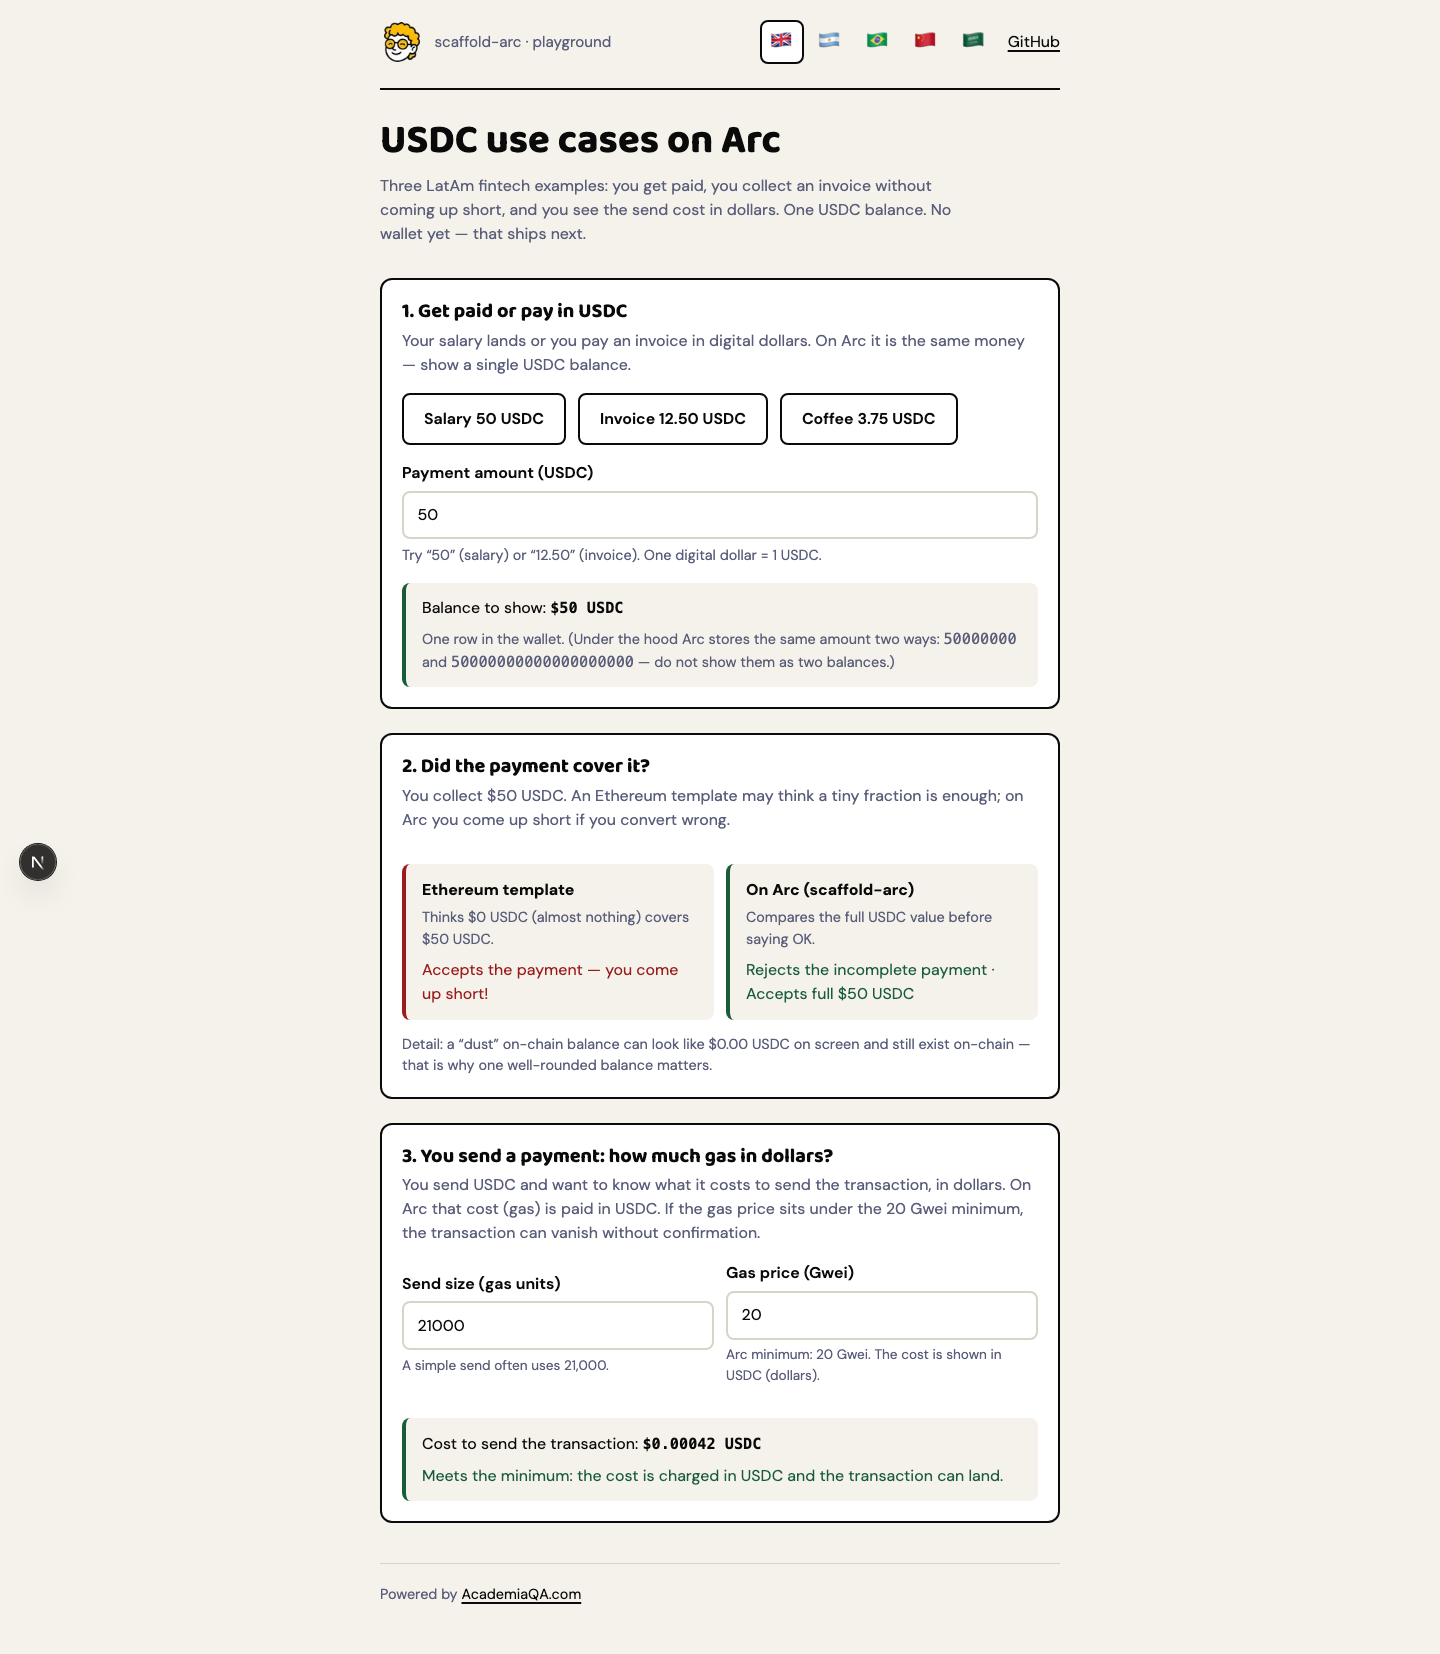
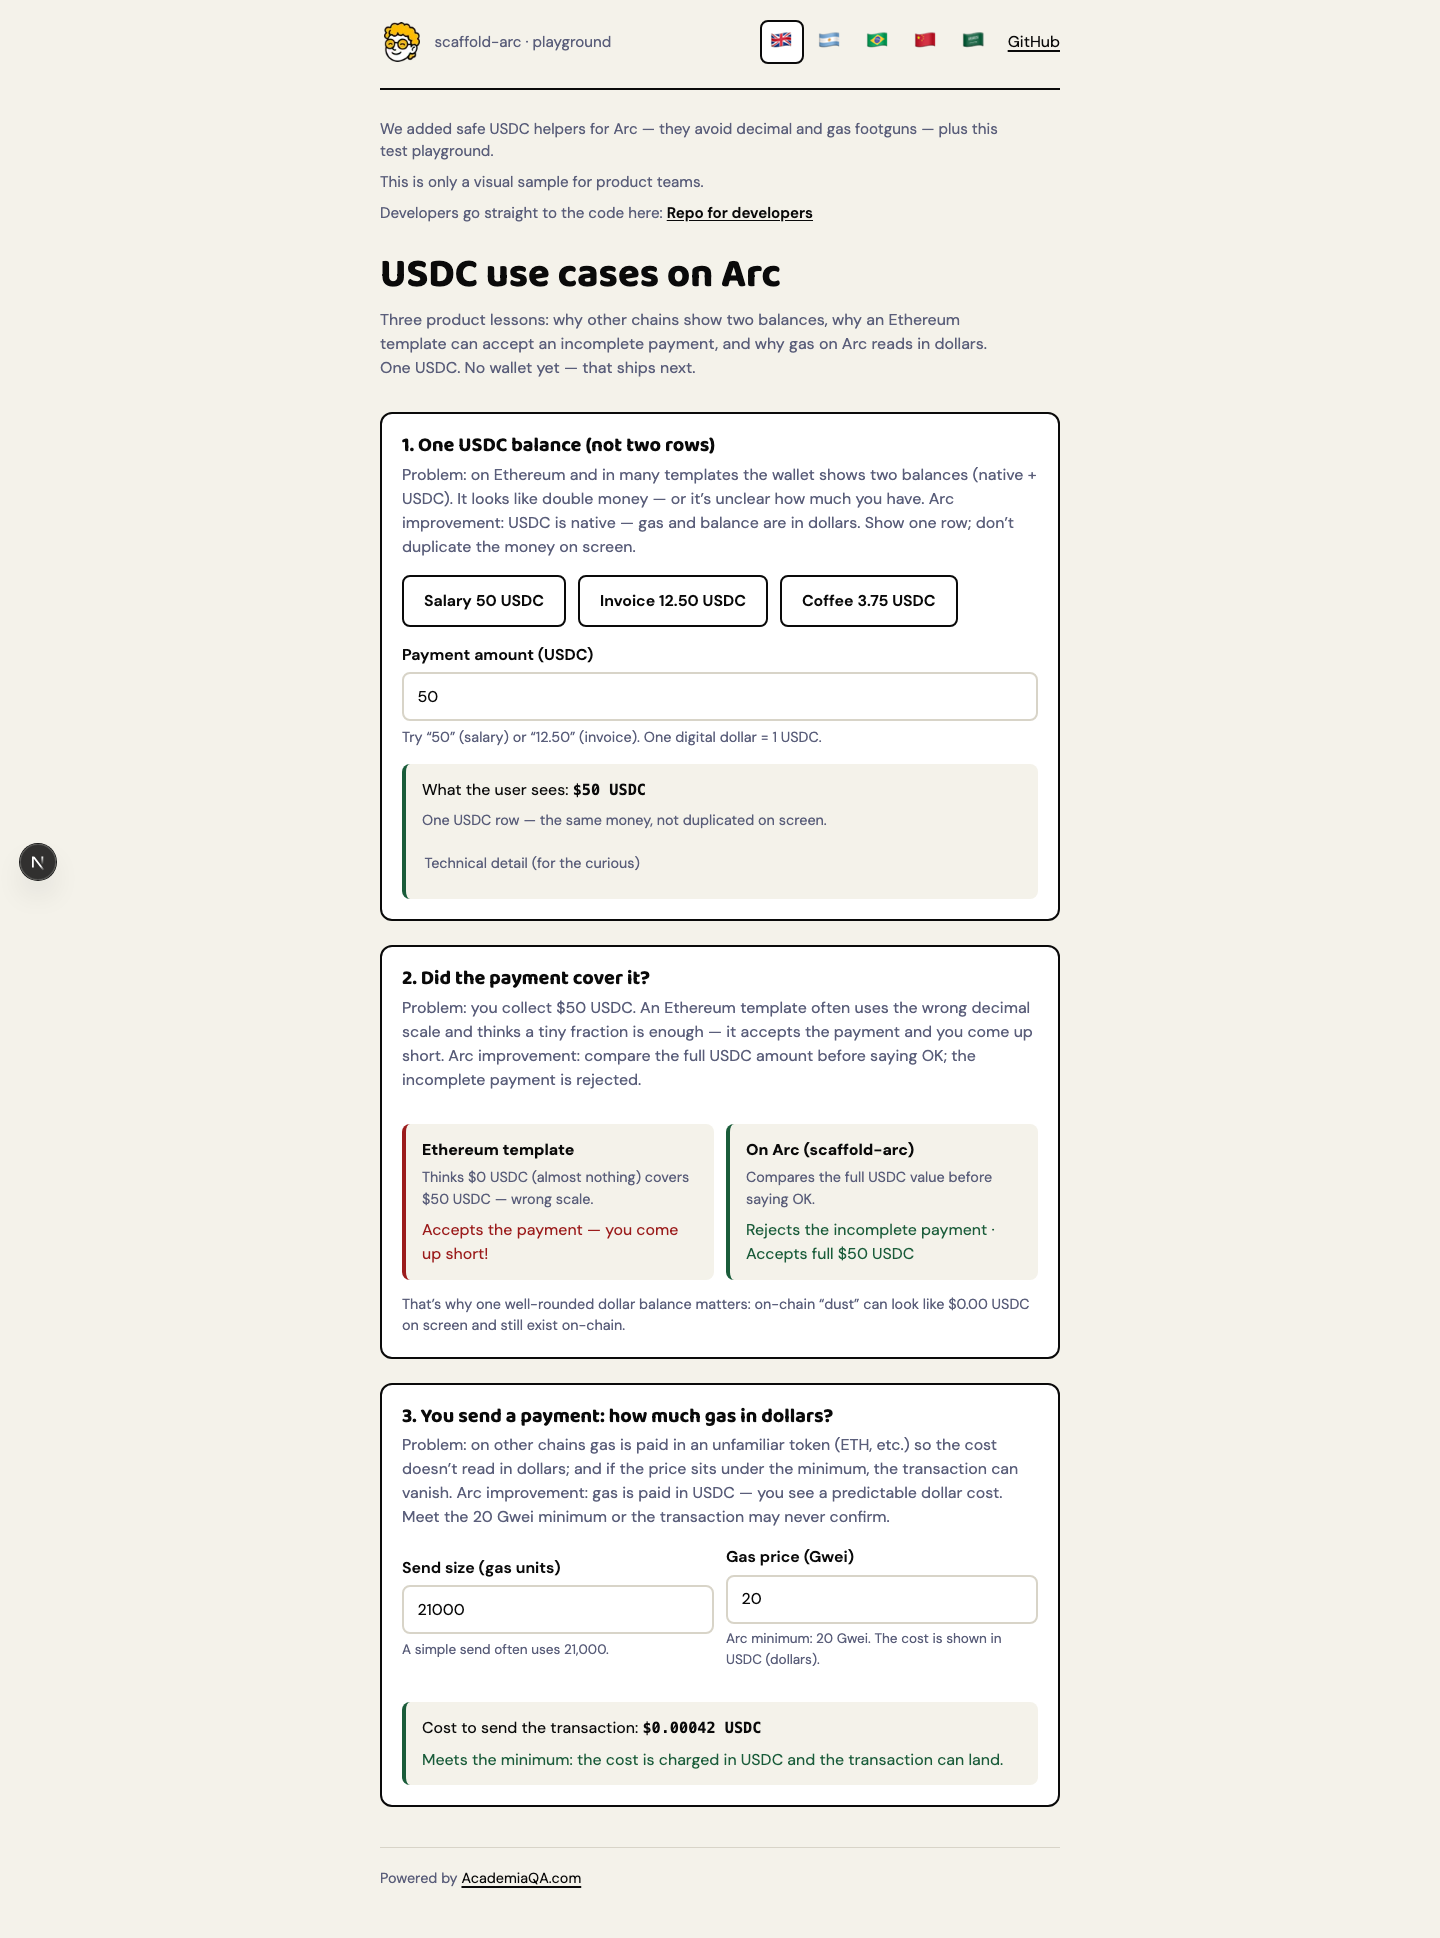
feat(playground): rewrite examples as problem → Arc fix lessons
Make all three USDC demos teach what Arc improves (one balance row, full payment amount, gas in dollars) and hide raw precision integers behind a collapsed tech detail.

diff --git a/packages/nextjs/app/components/UsdcPlayground.tsx b/packages/nextjs/app/components/UsdcPlayground.tsx
@@ -121,16 +121,22 @@ export function UsdcPlayground() {
               </strong>
             </p>
             <p className="muted" style={{ marginTop: "0.5rem", fontSize: "0.9rem" }}>
-              {t("balanceHintBefore")}{" "}
-              <span className="mono" data-testid="out-erc20">
-                {conversion.erc20.toString()}
-              </span>{" "}
-              {t("balanceHintAnd")}{" "}
-              <span className="mono" data-testid="out-native">
-                {conversion.native.toString()}
-              </span>{" "}
-              {t("balanceHintAfter")}
+              {t("balanceOneRow")}
             </p>
+            <details className="tech-details" data-testid="tech-details-balance">
+              <summary>{t("techDetailsSummary")}</summary>
+              <p className="muted" style={{ marginTop: "0.5rem", fontSize: "0.85rem" }}>
+                {t("techDetailsBody")}{" "}
+                <span className="mono" data-testid="out-erc20">
+                  {conversion.erc20.toString()}
+                </span>{" "}
+                {t("balanceHintAnd")}{" "}
+                <span className="mono" data-testid="out-native">
+                  {conversion.native.toString()}
+                </span>
+                .
+              </p>
+            </details>
           </div>
         )}
       </section>

diff --git a/packages/nextjs/app/globals.css b/packages/nextjs/app/globals.css
@@ -321,6 +321,31 @@ input[type="text"]:focus-visible {
   font-size: 0.95rem;
 }
 
+.tech-details {
+  margin-top: 0.65rem;
+  font-size: 0.9rem;
+}
+
+.tech-details summary {
+  cursor: pointer;
+  color: var(--sg-muted);
+  min-height: 44px;
+  display: inline-flex;
+  align-items: center;
+  border-radius: 6px;
+  padding: 0.25rem 0.15rem;
+  list-style-position: outside;
+}
+
+.tech-details summary:focus-visible {
+  outline: 3px solid var(--sg-accent);
+  outline-offset: 3px;
+}
+
+.tech-details[open] summary {
+  color: var(--sg-ink);
+}
+
 .compare {
   display: grid;
   gap: 0.75rem;

diff --git a/README.md b/README.md
@@ -49,9 +49,9 @@ Playground en `http://localhost:3000` (después de `yarn nextjs:dev`):
 
 | Ejemplo en la UI | Qué aprendés |
 |---|---|
-| **Te pagan o pagás en USDC** | Sueldo 50 USDC, factura 12,50 USDC o un café: un **solo saldo** en dólares. |
-| **¿Te alcanzó el pago?** | El template de Ethereum cree que alcanza con una fracción; en Arc te quedás corto si no convertís bien. |
-| **Mandás un pago: ¿cuánto gas en dólares?** | El **costo de enviar** la transacción se muestra en **USDC / dólares**. Si el precio del gas queda bajo el mínimo de 20 Gwei, la transacción puede desaparecer sin confirmación. |
+| **Un solo saldo USDC (no dos filas)** | Problema: en Ethereum / templates ves dos saldos y parece doble plata. Mejora Arc: USDC nativo → **una sola fila** en dólares; no duplicás el dinero en pantalla. |
+| **¿Te alcanzó el pago?** | Problema: el template de Ethereum usa la escala equivocada y acepta una fracción (te quedás corto). Mejora Arc: compara el **monto completo** en USDC antes de dar el ok. |
+| **Mandás un pago: ¿cuánto gas en dólares?** | Problema: en otras chains el gas va en un token raro. Mejora Arc: el **costo de enviar** se muestra en **USDC / dólares**. Si el precio queda bajo el mínimo de 20 Gwei, la transacción puede desaparecer. |
 
 Hoy **no hace falta wallet**: es una calculadora de prueba. Conectar MetaMask llega en el siguiente entregable.
 

diff --git a/packages/nextjs/README.md b/packages/nextjs/README.md
@@ -18,11 +18,11 @@ En el header: mascota (sin nombre personal) + selector de idioma **solo con band
 | `zh` | 中文 |
 | `ar` | العربية (RTL) |
 
-Tres ejemplos (traducidos):
+Tres ejemplos educativos (traducidos: problema → mejora Arc → resultado en dólares):
 
-1. **Te pagan o pagás en USDC** — sueldo, factura o café; un solo saldo en dólares.
-2. **¿Te alcanzó el pago?** — template de Ethereum vs pago completo en Arc.
-3. **Mandás un pago: ¿cuánto gas en dólares?** — costo de enviar la transacción en USDC; aviso si el precio del gas queda bajo el mínimo de 20 Gwei.
+1. **Un solo saldo USDC (no dos filas)** — en otras chains ves dos saldos; en Arc una sola fila en dólares (detalle técnico colapsado).
+2. **¿Te alcanzó el pago?** — el template de Ethereum acepta una fracción; Arc exige el monto completo.
+3. **Mandás un pago: ¿cuánto gas en dólares?** — gas en USDC (dólares previsibles); aviso si el precio queda bajo el mínimo de 20 Gwei.
 
 Capturas (desktop 1440 + móvil 390): ver [`docs/screenshots/`](../../docs/screenshots/).
 
